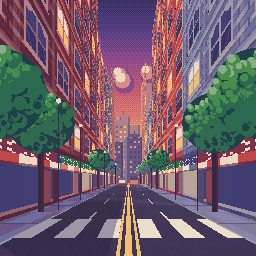
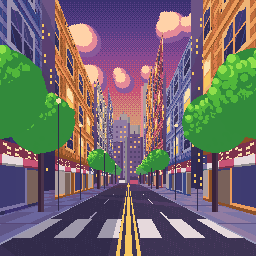
Street v3: separated buildings with alleys, wider sky, bolder colours, brighter trees
Claude-Session: https://claude.ai/code/session_018A3EjUJwum2xaBpGm7gsrV

diff --git a/games/background/street/make_street_v2.py b/games/background/street/make_street_v2.py
@@ -1,0 +1,174 @@
+"""Dusk street v2: 256x256 art grid, one-point perspective, city backdrop at the end, textured walls, leafy trees. Reduced to 48 colours, shown 4x."""
+import random
+from PIL import Image
+W=H=256; VX,VY=128,178; F=135.0; CAMH=1.5; ZEND=46.0
+random.seed(11)
+def hx(s): s=s.lstrip('#'); return tuple(int(s[i:i+2],16) for i in (0,2,4))
+def lerp(a,b,t): return tuple(max(0,min(255,int(a[i]+(b[i]-a[i])*t))) for i in range(3))
+def hsh(*a): return (hash(a)&0xffff)/65535.0
+SKY=[hx(c) for c in ("#3b3170","#5a3f86","#8a4a90","#c05a86","#e8776e","#ff9d6a","#ffc383")]
+HORIZON=hx("#f2a58e")
+im=Image.new("RGB",(W,H)); px=im.load()
+BAY=[[0,8,2,10],[12,4,14,6],[3,11,1,9],[15,7,13,5]]
+for y in range(H):
+    t=min(1,y/VY); pos=t*(len(SKY)-1); i=min(int(pos),len(SKY)-2); fr=pos-i
+    for x in range(W):
+        px[x,y]=SKY[i+(1 if fr>BAY[y%4][x%4]/16 else 0)] if y<=VY else HORIZON
+def put(x,y,c):
+    if 0<=x<W and 0<=y<H: px[x,y]=c
+def disc(cx,cy,r,col):
+    for y in range(int(cy-r),int(cy+r)+1):
+        for x in range(int(cx-r),int(cx+r)+1):
+            if (x-cx)**2+(y-cy)**2<=r*r: put(x,y,col)
+CL=[hx("#8a5a9a"),hx("#e58a98"),hx("#ffd2a8")]
+for cx,cy,n in ((55,38,10),(200,26,9),(120,78,6),(236,86,5)):
+    bl=[(cx+random.randint(-36,36),cy+random.randint(-7,7),random.randint(9,15)) for _ in range(n)]
+    for k,(dx,dy,sh) in enumerate(((0,0,0),(-2,-3,2),(-4,-6,5))):
+        for bx,by,r in bl: disc(bx+dx,by+dy,max(3,r-sh),CL[k])
+# ---- city backdrop at end of street (3 fog layers)
+YG=int(VY+CAMH*F/ZEND)
+def layer(col,n,hmin,hmax,wmin,wmax,win,fogt):
+    x=-10
+    while x<W+10:
+        w=random.randint(wmin,wmax); h=random.randint(hmin,hmax); c=lerp(col,HORIZON,fogt)
+        top=YG-h
+        for y in range(top,YG+1):
+            for xx in range(x,x+w):
+                c2=c
+                if xx<x+2: c2=lerp(c,(255,215,170),.25)      # sunlit edge
+                elif xx>=x+w-2: c2=lerp(c,(30,20,70),.25)
+                if win and (xx-x)%4 in (1,2) and (y%5) in (1,2) and y<YG-3 and 2<xx-x<w-3:
+                    c2=lerp(c,hx("#ffd890"),.7) if hsh(xx//4,y//5,x)<.33 else lerp(c,(20,15,60),.25)
+                put(xx,y,c2)
+        if random.random()<.5: # stepped top / antenna
+            for y in range(top-6,top): put(x+w//2,y,lerp(c,(0,0,0),.2))
+            for y in range(top-3,top):
+                for xx in range(x+3,x+w-3): put(xx,y,c)
+        x+=w+random.randint(-3,2)
+layer(hx("#8a6aa0"),0,40,100,12,24,False,.55)
+layer(hx("#6a5a9a"),0,28,76,10,22,True,.38)
+layer(hx("#4a3f82"),0,16,52,9,18,True,.2)
+# ---- facades
+def blocks():
+    z=0.4; out=[]; prev=None
+    while z<ZEND+8:
+        L=random.uniform(6,12); k=random.choice([c for c in ("brick","orange","blue","red","orange") if c!=prev]); prev=k
+        out.append((z,z+L,random.uniform(17,36),k)); z+=L
+    return out
+BL={-1:blocks(),1:blocks()}
+BASE={"brick":(hx("#a8404c"),hx("#7a2f4c")),"orange":(hx("#e0803f"),hx("#b05a46")),"blue":(hx("#6a7ab8"),hx("#46508e")),"red":(hx("#d0453f"),hx("#8e2c4a"))}
+NAVY=hx("#2a2858"); GLASS=hx("#5a5aa0"); LIT=hx("#ffd36b"); CREAM=(255,225,190)
+def fog(c,z): return lerp(c,HORIZON,min(1,(z/ZEND))**1.1*0.45)
+for x in range(W):
+    dx=x-VX
+    if dx==0: dx=0.01
+    side=-1 if dx<0 else 1
+    zw=F*4.5/abs(dx)
+    if zw<ZEND:
+        blk=next((b for b in BL[side] if b[0]<=zw<b[1]),BL[side][-1]); bi=BL[side].index(blk)
+        ytop=int(VY+(CAMH-blk[2])*F/zw); ybot=int(VY+CAMH*F/zw)
+        lit,shd=BASE[blk[3]]; base=lit if side==1 else lerp(shd,(20,10,50),.12)
+        ytop2=max(0,ytop)
+        for y in range(ytop2,min(H,ybot+1)):
+            z=zw; h=CAMH-(y-VY)*z/F; fl=int(h//3.4); fh=h%3.4; wz=z%2.7; wi=int(z/2.7)
+            c=base
+            if fl==0:
+                ac=[(hx("#d8434f"),hx("#f0d8c8")),(hx("#3fa7a3"),hx("#e0f0e8")),(hx("#e0a03f"),hx("#f8e8c0"))][(bi+int(z/9))%3]
+                sg=[hx("#7a2f4c"),hx("#1f3f6a"),hx("#2f5a4a")][(bi+int(z/9))%3]
+                c=lerp(base,(10,5,30),.5); sx=z%4.2
+                if 2.5<=fh<3.1:
+                    c=sg
+                    if 0.5<sx<3.7 and int(fh*9)%3!=0 and (int(z*5)+int(fh*9))%2==0 and int(z*5)%3!=0: c=hx("#f5e6c8")
+                elif 2.05<=fh<2.5:
+                    c=ac[0] if int(z*0.9)%2==0 else ac[1]
+                    if fh<2.15: c=lerp(c,(10,5,30),.45)
+                elif 0.15<fh<2.05 and 0.35<sx<3.85:
+                    if 2.7<sx<3.6 and fh<1.95: c=lerp(hx("#2a2040"),LIT,.35)
+                    elif abs(sx-2.65)<.05 or abs(sx-.35)<.05 or fh<.3: c=lerp(base,CREAM,.3)
+                    else: c=lerp(GLASS,LIT,.55) if (bi+int(z/4.2))%2==0 else lerp(NAVY,GLASS,.35)
+                else:
+                    c=lerp(c,base,.2*hsh(int(z*3),int(h*4)))
+            else:
+                inwin=0.6<fh<2.7 and 0.4<wz<2.1
+                if fh>3.05:                                   # cornice band with shadow below
+                    c=lerp(base,CREAM,.3) if fh<3.25 else lerp(base,(255,200,150),.15)
+                elif fh>2.95: c=lerp(base,(0,0,0),.35)
+                elif inwin:
+                    inner=0.78<fh<2.55 and 0.55<wz<1.95
+                    lit_w=((bi*7+fl*13+wi*5)%10)<3
+                    arch=fh>2.3 and (abs(wz-1.25)>0.55-(fh-2.3)*0.9)
+                    if not inner or arch: c=lerp(base,CREAM,.45)
+                    elif abs(wz-1.25)<.05 or abs(fh-1.65)<.06: c=lerp(base,CREAM,.3)
+                    elif lit_w: c=LIT if fh<1.65 else lerp(LIT,(255,245,200),.5)
+                    else:
+                        c=NAVY if fh<1.65 else lerp(NAVY,GLASS,.35)
+                        if (wz*2.2+fh)%1.3<.18: c=lerp(c,GLASS,.55)
+                elif 0.5<fh<=0.6 and 0.3<wz<2.2: c=lerp(base,CREAM,.5)
+                elif 0.6<fh<0.78 and 0.3<wz<2.2 and (fl+bi)%3==0: c=hx("#1d1a3a")   # fire-escape rail
+                else:
+                    row=int(h*3.2); off=.5 if row%2 else 0
+                    j=hsh(row,int(z*1.1+off),bi)
+                    c=lerp(base,(0,0,0),.1+.12*j) if j<.75 else lerp(base,(255,200,160),.14)
+                    if (h*3.2)%1<.14 or ((z*1.1+off)%1)<.1: c=lerp(base,(0,0,0),.34)
+                    if wz<.18 or wz>2.55: c=lerp(c,CREAM,.14)        # pilaster
+            if y in (ytop,ytop+1): c=lerp(base,(255,225,170),.4)
+            px[x,y]=fog(c,z)
+        wb=ybot
+    else: wb=None
+    # ground (z<ZEND only)
+    y0=max((wb+1) if wb is not None else 0,YG)
+    for y in range(y0,H):
+        if y<=VY: continue
+        z=CAMH*F/(y-VY)
+        if z>=ZEND: continue
+        X=(x-VX)*z/F; ax=abs(X)
+        if ax<3.0:
+            c=hx("#3b3354") if int(z*.8+X*.5)%7 else hx("#453b5e")
+            if hsh(x,y)<.06: c=lerp(c,(255,255,255),.06)
+            if ax<.08 or .17<ax<.25: c=hx("#f2c14e")
+            elif 1.4<ax<1.5 and (z%4)<2: c=hx("#d8d0e0")
+            if 3.4<z<5.0 and int((X+3)/.55)%2==0: c=hx("#e2dce8")
+            if X<-.4: c=lerp(c,hx("#1d1a3a"),.35)
+            if abs(ax-3.0)<.1: c=hx("#9a8cc0")
+        else:
+            c=hx("#8a7eb0") if (int(z/1.5)+int(ax*1.2))%2 else hx("#7a6ea0")
+            if abs(z%1.5)<.07: c=hx("#5c5280")
+            if X<0: c=lerp(c,hx("#3a2f66"),.4)
+        px[x,y]=fog(c,z)
+# ---- trees
+G=[hx("#1a3f48"),hx("#27694e"),hx("#3f8f4c"),hx("#6cb45a"),hx("#b4dc72")]
+def tree(side,z):
+    s=F/z; X=side*3.75; sx=VX+X*s; gy=VY+CAMH*s; cy=VY+(CAMH-3.9)*s; rx=1.5*s; ry=1.35*s
+    for y in range(int(cy+ry*.2),int(gy)):
+        for x in range(int(sx-s*.1),int(sx+s*.1)+1): put(x,y,fog(hx("#4a2f44") if x>sx else hx("#352038"),z))
+    rnd=random.Random(int(z*100)+side)
+    for y in range(int(cy-ry),int(cy+ry)+1):                       # dark mass
+        for x in range(int(sx-rx),int(sx+rx)+1):
+            if ((x-sx)/rx)**2+((y-cy)/ry)**2<=.92: put(x,y,fog(G[0],z))
+    pts=[]
+    for _ in range(int(60+14*s/6)):
+        a=rnd.uniform(0,6.283); d=rnd.random()**.6; pts.append((sx+d*rx*.9*__import__('math').cos(a),cy+d*ry*.88*__import__('math').sin(a)))
+    for ox,oy in pts:
+        t=(-(ox-sx)/rx*.55-(oy-cy)/ry*.85)             # light from top-left
+        k=max(0,min(4,int((t+.95)*2.1))); r=max(1.2,s*rnd.uniform(.13,.2))
+        disc(ox,oy,r,fog(G[max(1,k-1)],z))
+        disc(ox-r*.25,oy-r*.35,r*.62,fog(G[k],z))
+        if k>=3 and rnd.random()<.6: put(int(ox-r*.5),int(oy-r*.6),fog(G[4],z))
+def lamp(side,z):
+    s=F/z; sx=VX+side*3.15*s; gy=VY+CAMH*s; top=VY+(CAMH-5)*s
+    for y in range(int(top),int(gy)): put(int(sx),y,hx("#2a2a48"))
+    disc(sx,top,max(1,s*.12),hx("#ffe0a8"))
+for z in (42,32,24,17,12,8.5,5.8,3.8):
+    for side in (-1,1):
+        if (int(z)+side)%2==0 or z>20: tree(side,z)
+        if z in (32,17,8.5,5.8): lamp(-side,z*1.05)
+def car(X,z,c):
+    s=F/z; x0=int(VX+(X-.9)*s); x1=int(VX+(X+.9)*s); yb=int(VY+CAMH*s); y0=int(yb-1.4*s)
+    for y in range(y0,yb):
+        for x in range(x0,x1): put(x,y,fog(c if y>y0+.45*s else hx("#2a2858"),z))
+car(1.5,30,hx("#d8434f")); car(-1.6,38,hx("#e8e0d0"))
+out=im.quantize(48,method=Image.Quantize.MEDIANCUT,dither=Image.Dither.NONE).convert("RGB")
+out.save("street_dusk_art_256.png"); out.resize((1024,1024),Image.NEAREST).save("street_dusk_x4.png")
+print("colours:",len(out.getcolors(100000)))
+ref=Image.open("../../style-guide/references/ref_city_street.webp").convert("RGB").resize((512,512))
+cmp=Image.new("RGB",(1024,512)); cmp.paste(ref,(0,0)); cmp.paste(out.resize((512,512),Image.NEAREST),(512,0)); cmp.save("compare_street.png")

diff --git a/games/background/street/make_street.py b/games/background/street/make_street.py
@@ -52,24 +52,38 @@ layer(hx("#4a3f82"),0,16,52,9,18,True,.2)
 def blocks():
     z=0.4; out=[]; prev=None
     while z<ZEND+8:
-        L=random.uniform(6,12); k=random.choice([c for c in ("brick","orange","blue","red","orange") if c!=prev]); prev=k
-        out.append((z,z+L,random.uniform(17,36),k)); z+=L
+        L=random.uniform(6,11); k=random.choice([c for c in ("brick","orange","blue","red","cream","orange","blue") if c!=prev]); prev=k
+        H=random.uniform(34,44) if z<9 else random.uniform(13,27)
+        out.append((z,z+L,H,k)); z+=L
+        g=random.uniform(1.3,2.2); out.append((z,z+g,30,"alley")); z+=g
     return out
 BL={-1:blocks(),1:blocks()}
-BASE={"brick":(hx("#a8404c"),hx("#7a2f4c")),"orange":(hx("#e0803f"),hx("#b05a46")),"blue":(hx("#6a7ab8"),hx("#46508e")),"red":(hx("#d0453f"),hx("#8e2c4a"))}
+BASE={"cream":(hx("#e0d0b0"),hx("#a09080")),"brick":(hx("#a8404c"),hx("#7a2f4c")),"orange":(hx("#f08a2a"),hx("#c06030")),"blue":(hx("#4a6ad0"),hx("#2f4496")),"red":(hx("#d83030"),hx("#8e2040"))}
 NAVY=hx("#2a2858"); GLASS=hx("#5a5aa0"); LIT=hx("#ffd36b"); CREAM=(255,225,190)
-def fog(c,z): return lerp(c,HORIZON,min(1,(z/ZEND))**1.1*0.45)
+def fog(c,z): return lerp(c,HORIZON,min(1,(z/ZEND))**1.1*0.25)
 for x in range(W):
     dx=x-VX
     if dx==0: dx=0.01
     side=-1 if dx<0 else 1
-    zw=F*4.5/abs(dx)
+    zw=F*5.2/abs(dx)
     if zw<ZEND:
         blk=next((b for b in BL[side] if b[0]<=zw<b[1]),BL[side][-1]); bi=BL[side].index(blk)
-        ytop=int(VY+(CAMH-blk[2])*F/zw); ybot=int(VY+CAMH*F/zw)
-        lit,shd=BASE[blk[3]]; base=lit if side==1 else lerp(shd,(20,10,50),.12)
+        if blk[3]=="alley":
+            z2=F*10.0/abs(dx); yt=int(VY+(CAMH-blk[2])*F/z2); yb=int(VY+CAMH*F/z2)
+            for y in range(max(0,yt),min(H,yb+1)):
+                hh=CAMH-(y-VY)*z2/F
+                c=lerp(hx("#2a2250"),hx("#6a4a80"),min(1,max(0,(hh-4)/20)))
+                if hsh(x//2,y//3)<.05: c=hx("#ffd36b")
+                px[x,y]=fog(c,zw)
+            wb=yb; continue_ground=True
+            ytop=yt; ybot=yb
+        else:
+            ytop=int(VY+(CAMH-blk[2])*F/zw); ybot=int(VY+CAMH*F/zw)
+        if blk[3]=='alley': lit,shd=BASE['brick']
+        else: lit,shd=BASE[blk[3]]
+        base=lit if side==1 else lerp(shd,lit,.35)
         ytop2=max(0,ytop)
-        for y in range(ytop2,min(H,ybot+1)):
+        for y in (range(ytop2,min(H,ybot+1)) if blk[3]!='alley' else []):
             z=zw; h=CAMH-(y-VY)*z/F; fl=int(h//3.4); fh=h%3.4; wz=z%2.7; wi=int(z/2.7)
             c=base
             if fl==0:
@@ -136,7 +150,7 @@ for x in range(W):
             if X<0: c=lerp(c,hx("#3a2f66"),.4)
         px[x,y]=fog(c,z)
 # ---- trees
-G=[hx("#1a3f48"),hx("#27694e"),hx("#3f8f4c"),hx("#6cb45a"),hx("#b4dc72")]
+G=[hx("#1f5a3a"),hx("#2f8a3a"),hx("#4fb83a"),hx("#8ee04a"),hx("#d0f470")]
 def tree(side,z):
     s=F/z; X=side*3.75; sx=VX+X*s; gy=VY+CAMH*s; cy=VY+(CAMH-3.9)*s; rx=1.5*s; ry=1.35*s
     for y in range(int(cy+ry*.2),int(gy)):
@@ -144,7 +158,7 @@ def tree(side,z):
     rnd=random.Random(int(z*100)+side)
     for y in range(int(cy-ry),int(cy+ry)+1):                       # dark mass
         for x in range(int(sx-rx),int(sx+rx)+1):
-            if ((x-sx)/rx)**2+((y-cy)/ry)**2<=.92: put(x,y,fog(G[0],z))
+            if ((x-sx)/rx)**2+((y-cy)/ry)**2<=.92: put(x,y,fog(G[1],z))
     pts=[]
     for _ in range(int(60+14*s/6)):
         a=rnd.uniform(0,6.283); d=rnd.random()**.6; pts.append((sx+d*rx*.9*__import__('math').cos(a),cy+d*ry*.88*__import__('math').sin(a)))
@@ -167,7 +181,7 @@ def car(X,z,c):
     for y in range(y0,yb):
         for x in range(x0,x1): put(x,y,fog(c if y>y0+.45*s else hx("#2a2858"),z))
 car(1.5,30,hx("#d8434f")); car(-1.6,38,hx("#e8e0d0"))
-out=im.quantize(48,method=Image.Quantize.MEDIANCUT,dither=Image.Dither.NONE).convert("RGB")
+out=im.quantize(64,method=Image.Quantize.MEDIANCUT,dither=Image.Dither.NONE).convert("RGB")
 out.save("street_dusk_art_256.png"); out.resize((1024,1024),Image.NEAREST).save("street_dusk_x4.png")
 print("colours:",len(out.getcolors(100000)))
 ref=Image.open("../../style-guide/references/ref_city_street.webp").convert("RGB").resize((512,512))
